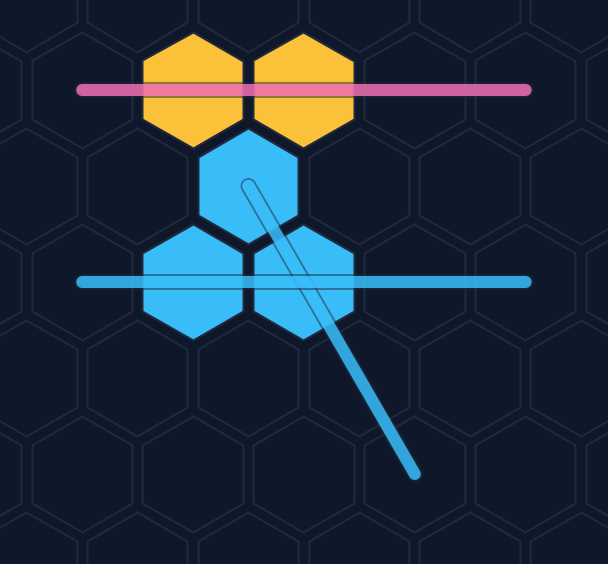
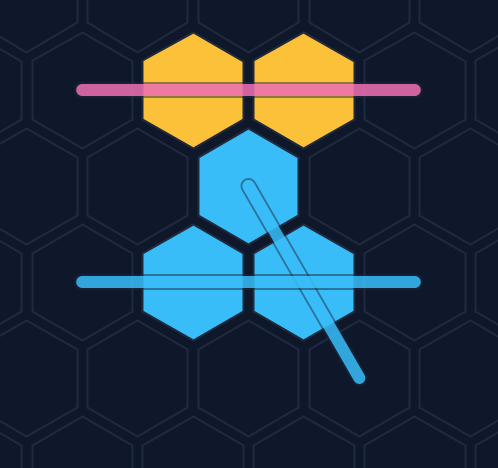
fix: improve highlight line behavior (#16)
* fix: change line length behavior

* fix: change default length to 6

Changed region(s): [[0.1205, 0.0598, 0.8735, 0.8675]]

diff --git a/render/src/test/kotlin/de/mineking/hexo/render/test/ImageRenderTest.kt b/render/src/test/kotlin/de/mineking/hexo/render/test/ImageRenderTest.kt
@@ -54,8 +54,8 @@ class ImageRenderTest {
         val board = Board()
         board[0, 1].owner = Player.X
         board[0, 2].owner = Player.O
-        board.highlightLine(CellCoordinate(1, 0), Direction.Left, length = 3, color = Player.X)
-        board.highlightLine(CellCoordinate(0, 2), Direction.TopLeft, length = 4, color = null)
+        board.highlightLine(CellCoordinate(1, 0), Direction.Left, length = 4, color = Player.X)
+        board.highlightLine(CellCoordinate(0, 2), Direction.TopLeft, length = 5, color = null)
 
         val renderedImage = board.renderToImage(
             layoutRadius = 64.0,

diff --git a/parse/src/main/kotlin/de/mineking/hexo/parse/RectilinearNotationParser.kt b/parse/src/main/kotlin/de/mineking/hexo/parse/RectilinearNotationParser.kt
@@ -112,7 +112,7 @@ private enum class ParserState {
             require(match != null) { "Invalid line highlight notation, use `[->|\\>|</|<-|<\\|/>]<length>?[x|o]?`" }
 
             val direction = Direction.fromSymbol(match.groupValues[1])
-            val length = match.groupValues[2].takeIf { it.isNotEmpty() }?.toInt() ?: 4
+            val length = match.groupValues[2].takeIf { it.isNotEmpty() }?.toInt() ?: 6
             val color = when (match.groupValues[3]) {
                 "x" -> Player.X
                 "o" -> Player.O

diff --git a/parse/src/test/kotlin/de/mineking/hexo/parse/test/RectilinearNotationParserTest.kt b/parse/src/test/kotlin/de/mineking/hexo/parse/test/RectilinearNotationParserTest.kt
@@ -103,7 +103,7 @@ class RectilinearNotationParserTest {
         assertEquals(
             listOf(
                 HighlightLine(CellCoordinate(1, 0), Direction.Left, length = 3, color = Player.X),
-                HighlightLine(CellCoordinate(0, 2), Direction.TopLeft, length = 4, color = null),
+                HighlightLine(CellCoordinate(0, 2), Direction.TopLeft, length = 6, color = null),
             ),
             board.highlightedLines,
         )

diff --git a/core/src/main/kotlin/de/mineking/hexo/core/Cell.kt b/core/src/main/kotlin/de/mineking/hexo/core/Cell.kt
@@ -36,4 +36,4 @@ data class HighlightLine(val start: CellCoordinate, val direction: Direction, va
     }
 }
 
-val HighlightLine.end get() = start + direction.direction * length
+val HighlightLine.end get() = start + direction.direction * (length - 1)

diff --git a/README.md b/README.md
@@ -76,7 +76,7 @@ The length can be specified directly after. If no length is specified, it will d
 
 Also, either `x` or `o` can ba added last, which specifies the color of the line. If no value is specified, the line will be pink by default.
 
-`.(->)xx/.o(\>3o)/(->o)oo`
+`.(->4)xx/.o(\>3o)/(->4o)oo`
 
 ![example highlight line](assets/example_highlight_line.png)
 
